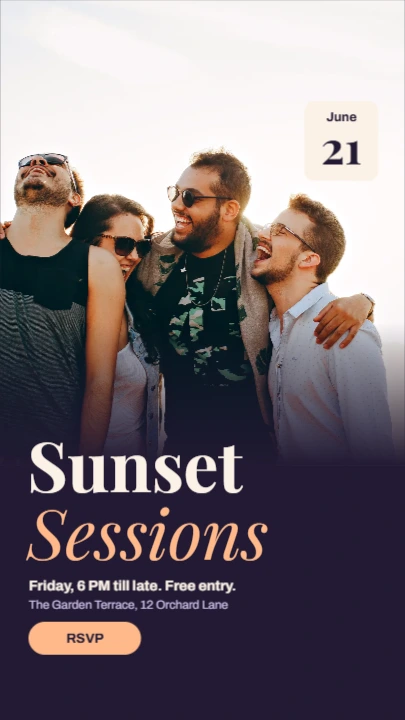
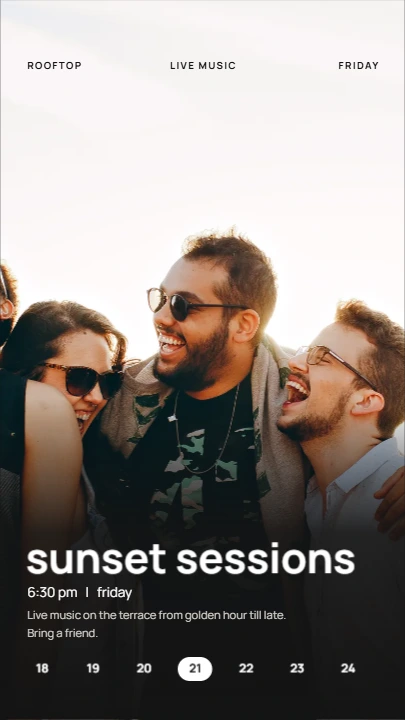
Event story template after the best-loved daily story sets
A full-bleed photo, small labels at the top, a big lowercase title low
on the page with the time and a line of text, and a row of dates with
the day picked out.

diff --git a/frontend/scripts/templates/designs/eventStory.ts b/frontend/scripts/templates/designs/eventStory.ts
@@ -1,43 +1,49 @@
 import { DocBuilder } from '../kit'
 import type { TemplateDesign } from '../registry'
 
-// A photo-led story: the people at the top, fading into a dusk panel that carries the title and the details. The
-// date sits on the photo like a ticket stub; everything that matters stays inside the story's safe zone.
-const NIGHT = '#221a33'
-const CREAM = '#fbf1e6'
-const PEACH = '#ffb98a'
-const LILAC = '#cdbfe8'
+// After the best-loved "daily story" sets: a full-bleed photo, a row of tiny labels at the top, a big lowercase title
+// low on the page with the time and a line of text under it, a strip of dates with the day picked out, and a bookmark.
+const W = 1080
+const H = 1920
+const INK = '#141414'
+const WHITE = '#ffffff'
+const SOFT = '#d9d4cc'
 
 export const eventStory: TemplateDesign = {
   slug: 'rooftop-event-story',
   title: 'Rooftop event story',
   category: 'social-media',
-  tags: ['story', 'event', 'instagram', 'party', 'music', 'sunset'],
-  description: 'A photo-led event story: friends at sunset fading into a dusk panel with a serif title, the date, time and place, and an RSVP button.',
+  tags: ['story', 'event', 'instagram', 'party', 'music', 'sunset', 'minimal'],
+  description: 'A full-bleed photo story: tiny labels at the top, a big lowercase title with the time and a line of text, a strip of dates with the day picked out.',
   preset: 'instagram-story',
   featured: true,
   async build() {
-    const doc = new DocBuilder(this.slug, { width: 1080, height: 1920, unit: 'px', presetId: 'instagram-story' })
-    const p = doc.page('Story', { type: 'solid', color: NIGHT })
+    const doc = new DocBuilder(this.slug, { width: W, height: H, unit: 'px', presetId: 'instagram-story' })
+    const p = doc.page('Story', { type: 'solid', color: INK })
 
-    // The photo, and the fade that lets the panel take over.
-    await p.photo({ name: 'Photo', file: 'rooftop-friends.webp', x: 0, y: 0, w: 1080, h: 1240, focusX: 0.42, focusY: 0.5 })
-    p.rect({ name: 'Fade', x: 0, y: 860, w: 1080, h: 382, fill: { angle: 90, stops: [[0, '#221a3300'], [1, NIGHT]] } })
+    await p.photo({ name: 'Photo', file: 'rooftop-friends.webp', x: 0, y: 0, w: W, h: H, focusX: 0.45, focusY: 0.5 })
+    // Shade at the bottom, so the white type reads on any photo; the labels at the top sit on the bright sky.
+    p.rect({ name: 'Bottom shade', x: 0, y: 1060, w: W, h: 860, fill: { angle: 90, stops: [[0, '#14141400'], [0.42, '#141414e6'], [1, INK]] } })
 
-    // The date, like a ticket stub on the photo.
-    p.rect({ name: 'Date card', x: 812, y: 270, w: 196, h: 212, fill: CREAM, radius: 24 })
-    p.text({ name: 'Month', x: 812, y: 294, w: 196, text: 'June', font: 'archivo', bold: true, size: 34, color: NIGHT, on: CREAM, align: 'center', lines: 1 })
-    p.text({ name: 'Day', x: 812, y: 332, w: 196, text: '21', font: 'playfair', bold: true, size: 120, color: NIGHT, on: CREAM, align: 'center', lh: 1, lines: 1 })
+    // Labels.
+    const labels = ['Rooftop', 'Live music', 'Friday']
+    labels.forEach((label, i) => {
+      p.text({ name: `Label ${i + 1}`, x: 72 + i * 312, y: 160, w: 312, text: label, font: 'manrope', bold: true, size: 26, color: INK, on: '#f4f4f2', align: i === 0 ? 'left' : i === 1 ? 'center' : 'right', upper: true, spacing: 140, lines: 1 })
+    })
 
-    // Title.
-    p.text({ name: 'Title', x: 72, y: 1150, w: 940, text: 'Sunset', font: 'playfair', bold: true, size: 184, color: CREAM, on: NIGHT, lh: 1, lines: 1 })
-    p.text({ name: 'Title second line', x: 72, y: 1330, w: 940, text: 'Sessions', font: 'playfair', italic: true, size: 184, color: PEACH, on: NIGHT, lh: 1, lines: 1 })
+    // Title, time and a line of text.
+    p.text({ name: 'Title', x: 68, y: 1430, w: 940, text: 'sunset sessions', font: 'manrope', bold: true, size: 112, color: WHITE, on: INK, lh: 1, lines: 1 })
+    p.text({ name: 'Time', x: 72, y: 1560, w: 940, text: '6:30 pm   |   friday', font: 'manrope', size: 36, color: WHITE, on: INK, lines: 1 })
+    p.text({ name: 'Text', x: 72, y: 1624, w: 760, text: 'Live music on the terrace from golden hour till late. Bring a friend.', font: 'manrope', size: 30, color: SOFT, on: INK, lh: 1.4, lines: 2 })
 
-    // Details.
-    p.text({ name: 'When', x: 76, y: 1540, w: 920, text: 'Friday, 6 PM till late. Free entry.', font: 'archivo', bold: true, size: 38, color: CREAM, on: NIGHT, lines: 1 })
-    p.text({ name: 'Where', x: 76, y: 1594, w: 920, text: 'The Garden Terrace, 12 Orchard Lane', font: 'archivo', size: 32, color: LILAC, on: NIGHT, lines: 1 })
-    p.rect({ name: 'Button', x: 76, y: 1658, w: 300, h: 88, fill: PEACH, radius: 44 })
-    p.text({ name: 'Button label', x: 76, y: 1658 + 24, w: 300, text: 'RSVP', font: 'archivo', bold: true, size: 36, color: NIGHT, on: PEACH, align: 'center', lines: 1 })
+    // The week, with the day picked out.
+    const days = ['18', '19', '20', '21', '22', '23', '24']
+    days.forEach((day, i) => {
+      const x = 72 + i * 136
+      const picked = day === '21'
+      if (picked) p.rect({ name: 'Picked day', x: x - 6, y: 1752, w: 92, h: 64, fill: WHITE, radius: 32 })
+      p.text({ name: `Day ${day}`, x: x - 6, y: 1764, w: 92, text: day, font: 'manrope', bold: true, size: 32, color: picked ? INK : WHITE, on: picked ? WHITE : INK, align: 'center', lines: 1 })
+    })
     return doc
   },
 }
